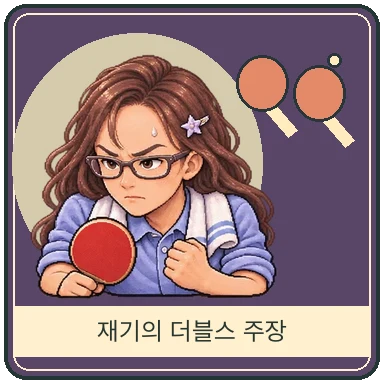
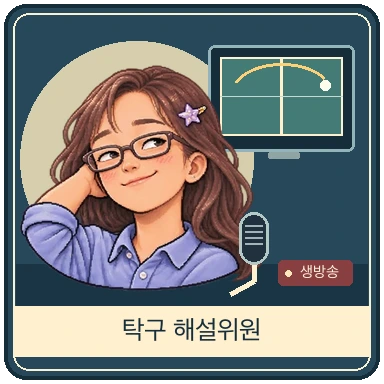
Retell the hidden doubles ending from the broadcast booth

diff --git a/logic.js b/logic.js
@@ -131,7 +131,7 @@ const SPECIAL_ENDINGS = [
   {"id": "supper", "title": "골목의 심야 식당", "text": "야근을 마친 이웃에게 건넨 한 그릇이 시작이었어요. 희범이 식당의 마지막 주문은 늘 “오늘도 그거 주세요”입니다.", "counts": {"meal": 32, "volunteer": 28, "farm": 24}, "stats": {"manner": 75, "grit": 63}, "hidden": true},
   {"id": "rescue", "title": "산악 구조대장", "text": "해가 넘어가기 전 마지막 등산객을 찾았어요. 무전기에서 전원 귀환이라는 대답이 돌아옵니다.", "counts": {"run": 32, "safety": 30, "volunteer": 15}, "stats": {"stamina": 85, "courage": 80}, "hidden": true},
   {"id": "chalk", "title": "작은 학교의 교장", "text": "폐교 안내문을 떼고 첫 수업 시간을 써 붙였어요. 동네 어른들도 작은 의자를 끌어와 앉습니다.", "counts": {"teach": 26, "study": 30, "volunteer": 20}, "stats": {"smarts": 80, "manner": 78}, "hidden": true},
-  {"id": "comeback", "title": "재기의 더블스 주장", "text": "결승 매치 포인트에서 동료에게 서브 코스를 알려 줬어요. 먼저 넘어졌던 희범이가 이번엔 둘이서 일어섰습니다.", "counts": {"league": 32, "lesson": 23, "instruct": 16}, "stats": {"skill": 83, "stamina": 62}, "hidden": true},
+  {"id": "comeback", "title": "탁구 해설위원", "text": "첫 생중계에서 희범이가 느린 화면을 짚었어요. “공이 옆으로 튀었죠? 라켓이 공의 옆면을 스쳤거든요.” 다음 서브가 들어오자 옆자리 캐스터가 웃었어요. “이번엔 저도 봤어요!”", "counts": {"league": 32, "lesson": 23, "instruct": 16}, "stats": {"skill": 83, "stamina": 62}, "hidden": true},
   {"id": "closedgym", "title": "불 꺼진 체육관", "text": "회원에게 가르칠 동작을 혼자서만 연습했어요. 개장 첫날 텅 빈 사물함에 열쇠가 그대로 걸려 있습니다.", "counts": {"run": 40, "instruct": 4}, "stats": {}, "cap": {"instruct": 5}},
   {"id": "unsold", "title": "창고에 쌓인 수확", "text": "밭에서는 풍년이었지만 출하 날짜를 놓쳤어요. 농장 창고에 상자만 천장까지 쌓였습니다.", "counts": {"farm": 43, "rest": 31}, "stats": {}, "cap": {"study": 2}},
   {"id": "spareparts", "title": "멈춘 발명품", "text": "부품을 사서 조립하고 다시 뜯는 동안 설명서는 첫 장 그대로였어요. 시연 날에도 스위치는 켜지지 않았습니다.", "counts": {"craft": 37, "farm": 15}, "stats": {}, "cap": {"study": 2}},

diff --git a/app.js b/app.js
@@ -1,6 +1,6 @@
-import * as L from './logic.js?v=secret-stories';
+import * as L from './logic.js?v=commentator';
 import { playPrologue } from './prologue.js?v=birth1996';
-import { openTutorial } from './tutorial.js?v=secret-stories';
+import { openTutorial } from './tutorial.js?v=commentator';
 
 const KEY = 'raise-beam-v3';
 const DEX_KEY = 'raise-beam-endings';
@@ -46,7 +46,7 @@ function save() {
 const TIRED = 35;
 const imageRoot = () => state?.gender === 'female' ? 'img/female' : 'img';
 const stageImg = (stage, yawn) => `${imageRoot()}/stages/${yawn ? 'yawn/' : ''}${stage}.webp`;
-const endingImg = (id, yawn) => `${imageRoot()}/endings/${yawn ? 'yawn/' : ''}${id}.webp`;
+const endingImg = (id, yawn) => `${imageRoot()}/endings/${yawn ? 'yawn/' : ''}${id}.webp${id === 'comeback' ? '?v=commentator' : ''}`;
 const situationImg = (stage, face) => `${imageRoot()}/situations/${stage}/${face}.webp`;
 let reaction = null;
 let conversationTurn = 0;

diff --git a/tutorial.js b/tutorial.js
@@ -1,4 +1,4 @@
-import { ACTIONS, AP_PER_DAY, newGame, doAction, endDay } from './logic.js?v=secret-stories';
+import { ACTIONS, AP_PER_DAY, newGame, doAction, endDay } from './logic.js?v=commentator';
 
 const SEEN = 'raise-beam-tutorial-v1';
 const activities = ['study', 'run', 'rest'];

diff --git a/index.html b/index.html
@@ -212,6 +212,6 @@
   </dialog>
   <p class="toast" id="toast" role="status" aria-live="polite"></p>
 
-  <script type="module" src="app.js?v=secret-stories"></script>
+  <script type="module" src="app.js?v=commentator"></script>
 </body>
 </html>
